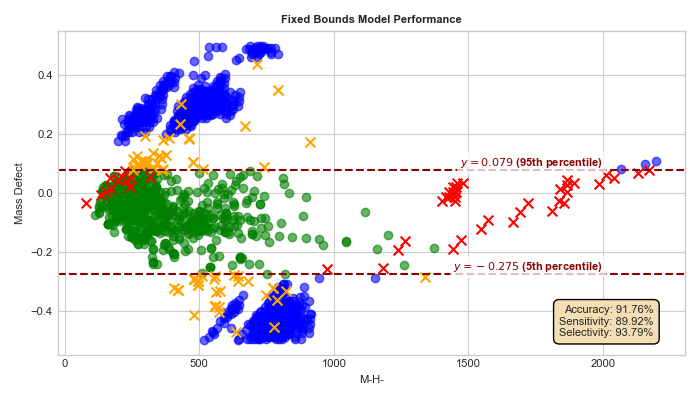
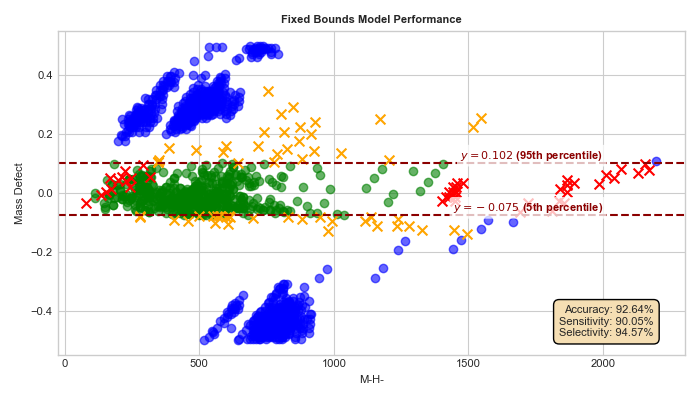
combining halogenated and PFAS analysis

diff --git a/PIMMS v1.2/testing_expanded_library/mass_defect_plot.py b/PIMMS v1.2/testing_expanded_library/mass_defect_plot.py
@@ -76,7 +76,7 @@ def plot_model_performance(
         # For the lower bound equation
         ax.text(
             text_x_pos,
-            lower_bound(text_x_pos) + 0.22,
+            lower_bound(text_x_pos),
             eq_lower,
             color="black",
             va="top",
@@ -89,7 +89,7 @@ def plot_model_performance(
         # For the upper bound equation
         ax.text(
             text_x_pos,
-            upper_bound(text_x_pos) + 0.22,
+            upper_bound(text_x_pos),
             eq_upper,
             color="darkred",
             va="bottom",
@@ -197,7 +197,7 @@ def plot_model_performance(
     ax.tick_params(axis="both", which="major", labelsize=8)
     plt.tight_layout()
     plt.savefig(
-        r"PIMMS v1.2\testing_expanded_library\PFAS_performance\fixed_performance.png"
+        r"PIMMS v1.2\testing_expanded_library\halogenated_performance\linear_performance.png"
     )
     plt.show()
 
@@ -317,7 +317,7 @@ def main():
     try:
         pfas_data = pd.read_csv(FILES["pfas"])
         lipid_data = pd.read_csv(FILES["lipids"])
-        optimize_fixed_bounds(pfas_data, lipid_data)
+        optimize_linear_bounds(pfas_data, lipid_data)
     except FileNotFoundError as e:
         print(f"\n[ERROR] File not found: {e}")
     except Exception as e:
